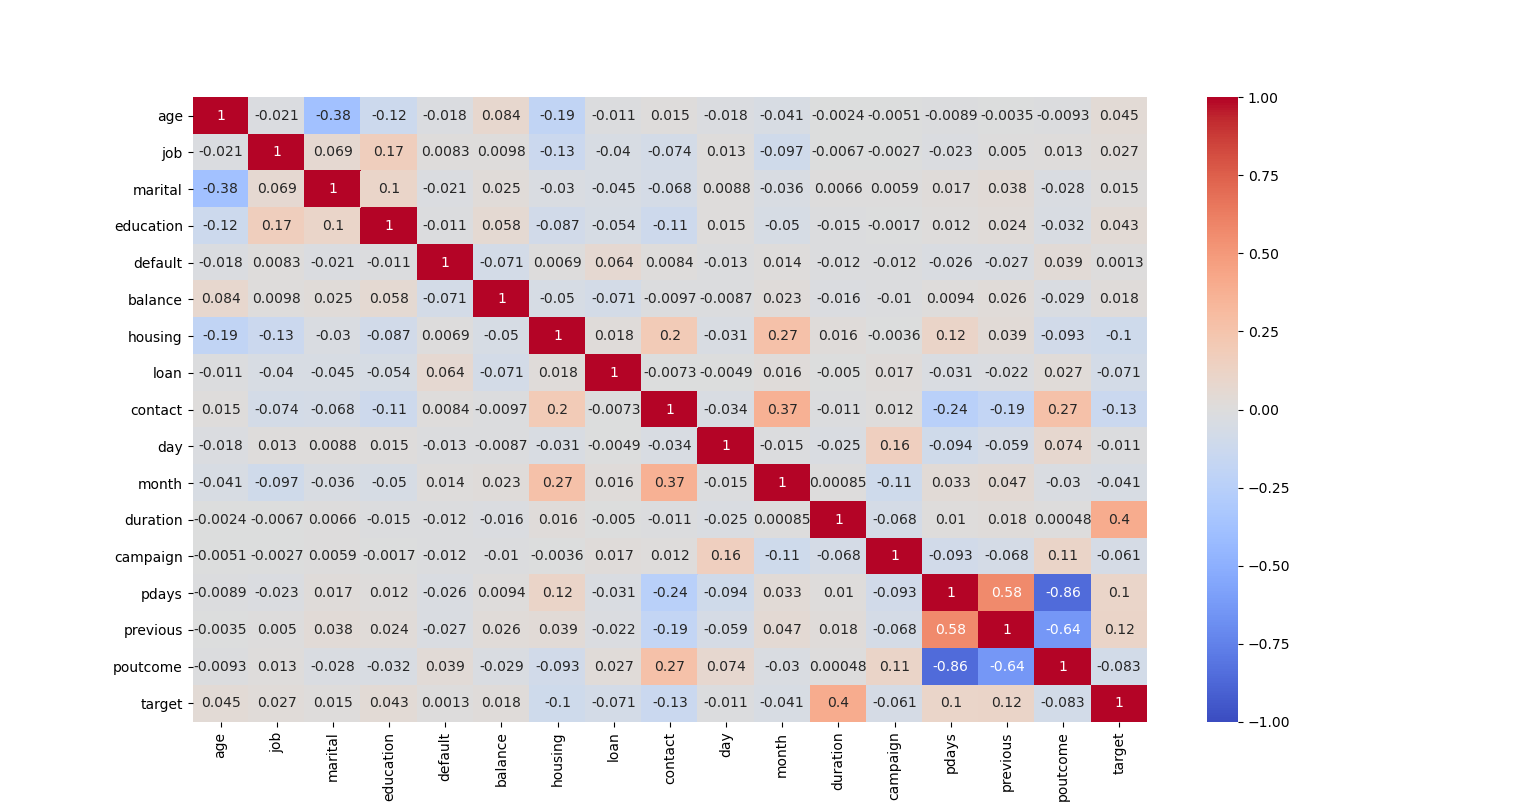
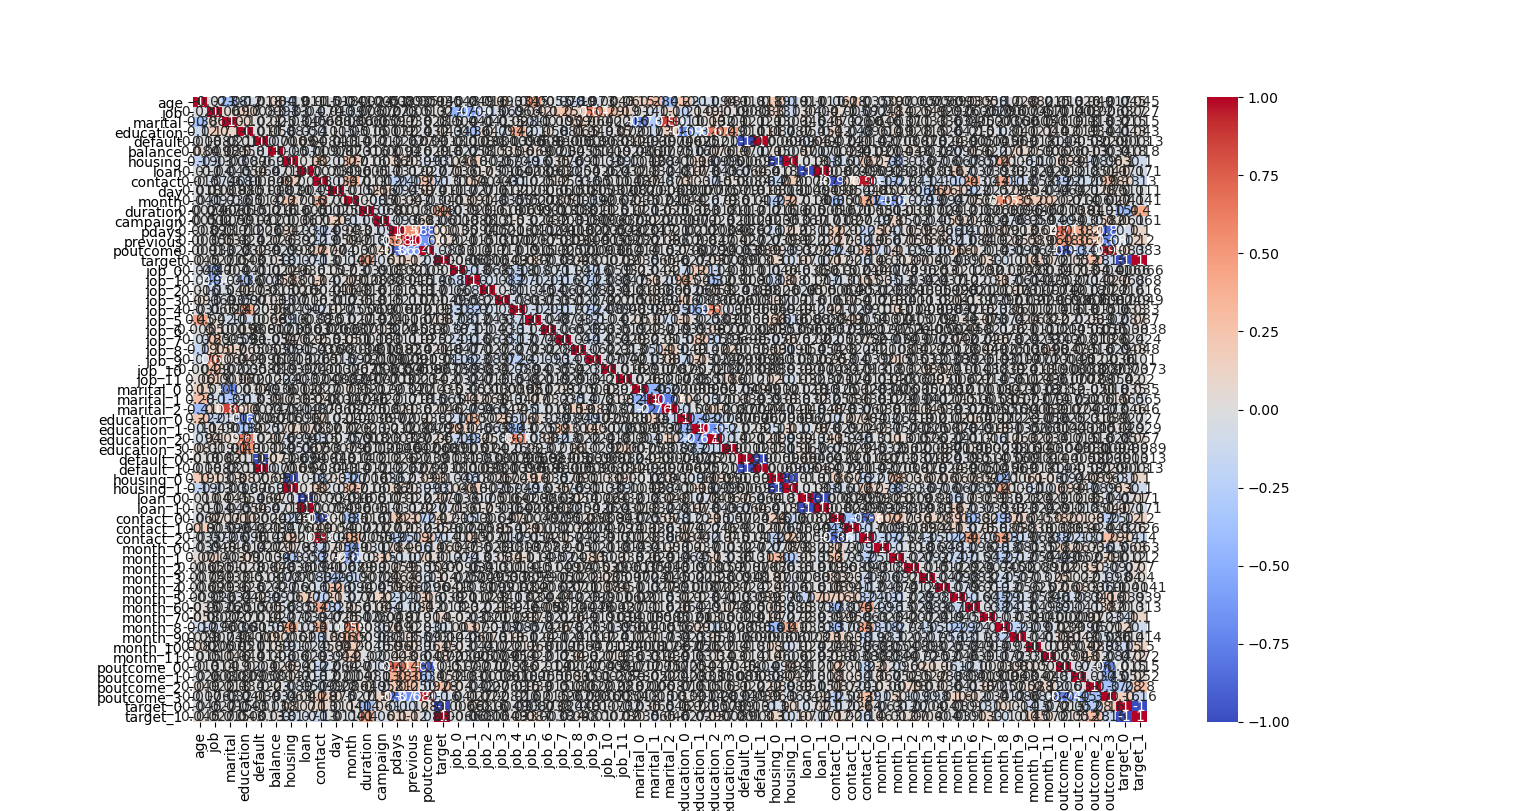
One Hot Encoding

diff --git a/model/DataVisualization.py b/model/DataVisualization.py
@@ -7,6 +7,7 @@ from model.Logger import logger
 import matplotlib.pyplot as plt
 import seaborn as sns
 
+
 class DataVisualisation():
     def __init__(self, parent=None):
         try:
@@ -190,10 +191,13 @@ class DataVisualisation():
             default_encoder = EncoderStore.get('default')
             target_labels = target_encoder.classes_
             inverse_default = default_encoder.inverse_transform(df['default'])
-            sizes_default_no = [((inverse_default == 'no') & (inverse_target == 'no')).sum(), ((inverse_default == 'no') & (inverse_target == 'yes')).sum()]
-            sizes_default_yes = [((inverse_default == 'yes') & (inverse_target == 'no')).sum(), ((inverse_default == 'yes') & (inverse_target == 'yes')).sum()]
+            sizes_default_no = [((inverse_default == 'no') & (inverse_target == 'no')).sum(),
+                                ((inverse_default == 'no') & (inverse_target == 'yes')).sum()]
+            sizes_default_yes = [((inverse_default == 'yes') & (inverse_target == 'no')).sum(),
+                                 ((inverse_default == 'yes') & (inverse_target == 'yes')).sum()]
             sizes = sizes_default_no + sizes_default_yes
-            overall_labels = ['Default:no, Target:no', 'Default:no, Target:yes', 'Default:yes, Target:no', 'Default:yes, Target:yes']
+            overall_labels = ['Default:no, Target:no', 'Default:no, Target:yes', 'Default:yes, Target:no',
+                              'Default:yes, Target:yes']
             overall_colors = ['olive', 'pink', 'orange', 'blue']
             colors = ['lightcoral', 'yellowgreen']
             fig, (ax1, ax2, ax3) = plt.subplots(1, 3, figsize=(30, 10))
@@ -321,8 +325,8 @@ class DataVisualisation():
     def visualize_feature_correlation_heat_map(self, df):
         logger.info("In DataVisualisation | visualize_feature_correlation_heat_map started")
         try:
-            fig,ax = plt.subplots(figsize=(20,20))
-            chart = sns.heatmap(df.corr(), ax=ax, annot = True, vmin=-1, vmax=1, center= 0, cmap= 'coolwarm')
+            fig, ax = plt.subplots(figsize=(20, 20))
+            chart = sns.heatmap(df.corr(), ax=ax, annot=True, vmin=-1, vmax=1, center=0, cmap='coolwarm')
             chart.set_xticklabels(chart.get_xticklabels(), rotation=90)
             chart.set_yticklabels(chart.get_yticklabels(), rotation=0)
             plt.ion()

diff --git a/model/LoanProcessing.py b/model/LoanProcessing.py
@@ -12,7 +12,7 @@ import sys, os, gc, traceback
 import missingno as msno
 from impyute.imputation.cs import mice, fast_knn
 from scipy import stats
-from sklearn.preprocessing import LabelEncoder
+from sklearn.preprocessing import LabelEncoder, OneHotEncoder
 
 from model.Constants import DEFAULT_DIRECTORY, DATA_CSV_FILENAME, COLUMNS_CATEGORIZATION_APPLICABLE, \
     VISUALIZATION_SAVE_DIRECTORY, COLUMN_WISE_IMPUTE_TECHNIQUE_MAP
@@ -63,11 +63,19 @@ class PreProcessor():
                     encoder.fit(df[col].unique())
                     df[col] = encoder.fit_transform(df[col])
                     EncoderStore.save(col, encoder)
+            one_hot_encoder = OneHotEncoder(sparse=False, handle_unknown='ignore')
+            for col in cat_cols:
+                enc_df = pd.DataFrame(one_hot_encoder.fit_transform(df[[col]]))
+                enc_df.columns = one_hot_encoder.get_feature_names([col])
+                df = df.join(enc_df)
+            logger.info('Columns in dataframe after one hot encoding: ' + str(df.columns))
+            logger.info('Shape of dataframe after one hot encoding: ' + str(df.shape))
         except Exception as exp:
             err = self.errObj.handleErr(str(exp))
             logger.error(str(err))
         logger.info("In PreProcessor | convert_to_categorical_values finished")
         return df
+
 
     def dimension_stat_analysis(self, df, categorical_cols):
         logger.info("In PreProcessor | dimension_stat_analysis started")
@@ -272,8 +280,8 @@ def main():
     categorical_cols = pre_process.detect_categorical_columns(df)
     logger.info('Categorical Columns in dataset : ' + str(categorical_cols))
     pre_process.dimension_stat_analysis(df, categorical_cols)
-    pre_process.convert_to_categorical_values(df, categorical_cols)
-    logger.info('DataFrame After Categorical Column Label Encoding :')
+    df = pre_process.convert_to_categorical_values(df, categorical_cols)
+    logger.info('DataFrame After Categorical Column Encoding :')
     logger.info(df.head())
     del pre_process
     visualization = DataVisualisation()

diff --git a/model/FeatureEngineering.py b/model/FeatureEngineering.py
@@ -1,0 +1,40 @@
+import numpy as np
+import pandas as pd
+
+from model.ErrorHandler import ErrorHandler
+from model.Logger import logger
+
+
+class FeatureEngineering():
+    def __init__(self, parent=None):
+        try:
+            self.errObj = ErrorHandler()
+        except Exception as exp:
+            err = self.errObj.handleErr(str(exp))
+            logger.error(str(err))
+
+    def create_bin(self, data, numerical_cols, number_of_bins=4):
+        try:
+            logger.info("In FeatureEngineering | create_bin started")
+            d1 = data.copy()
+            for col in numerical_cols:
+                bins = np.linspace(d1[col].min(), d1[col].max(), number_of_bins)
+                d1[col + '_bin'] = pd.cut(d1[col], bins, precision=1, include_lowest=True, right=True)
+            logger.info("In FeatureEngineering | create_bin finished")
+            return d1
+        except Exception as exp:
+            err = self.errObj.handleErr(str(exp))
+            logger.error(str(err))
+
+    def create_category_percent(self, data, categorical_cols):
+        try:
+            logger.info("In FeatureEngineering | create_category_percent started")
+            d1 = data.copy()
+            length = len(d1)
+            for col in categorical_cols:
+                d1[col + 'Pct'] = (d1[col].groupby(d1[i]).transform('count')) * 100 / length
+            logger.info("In FeatureEngineering | create_category_percent finished")
+            return d1
+        except Exception as exp:
+            err = self.errObj.handleErr(str(exp))
+            logger.error(str(err))
